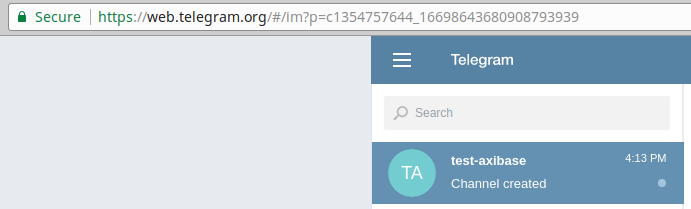
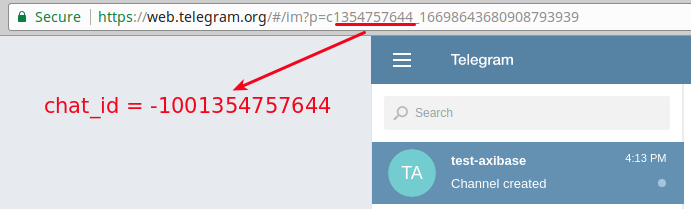
Screenshots improved

diff --git a/rule-engine/notifications/telegram.md b/rule-engine/notifications/telegram.md
@@ -74,11 +74,11 @@ Install [WebDriver](README.md#instal-web-driver)
 
 * Get the chat id:
   * log in [Telegram Web](https://web.telegram.org)
-  * click on channel and look at URL: /#/im?p=c**1326547953**_11308280938695212446
+  * click on channel and look at URL: /#/im?p=c**1354757644**_16698643680908793939
   
    ![](images/channel_url.png)
   
-  * copy numbers before underscore and add prefix `-100`, so the chat id will be like `-1001326547953`
+  * copy numbers before underscore and add prefix `-100`, so the chat id will be like `-1001354757644`
 
 ## Configure Web Notifications
 
